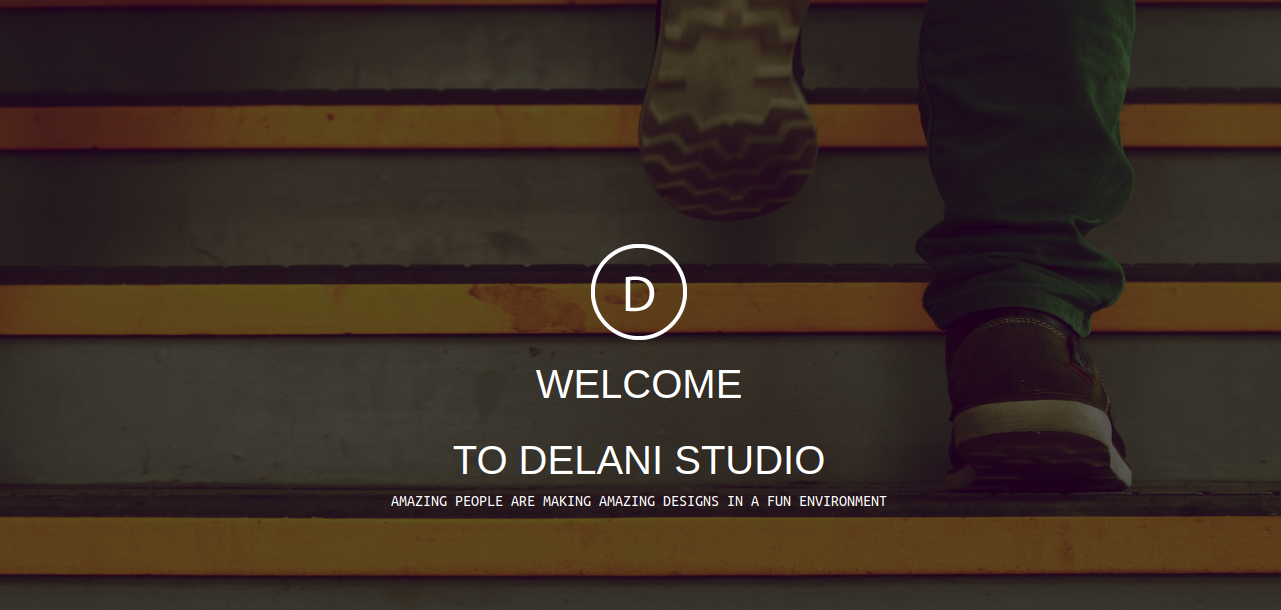
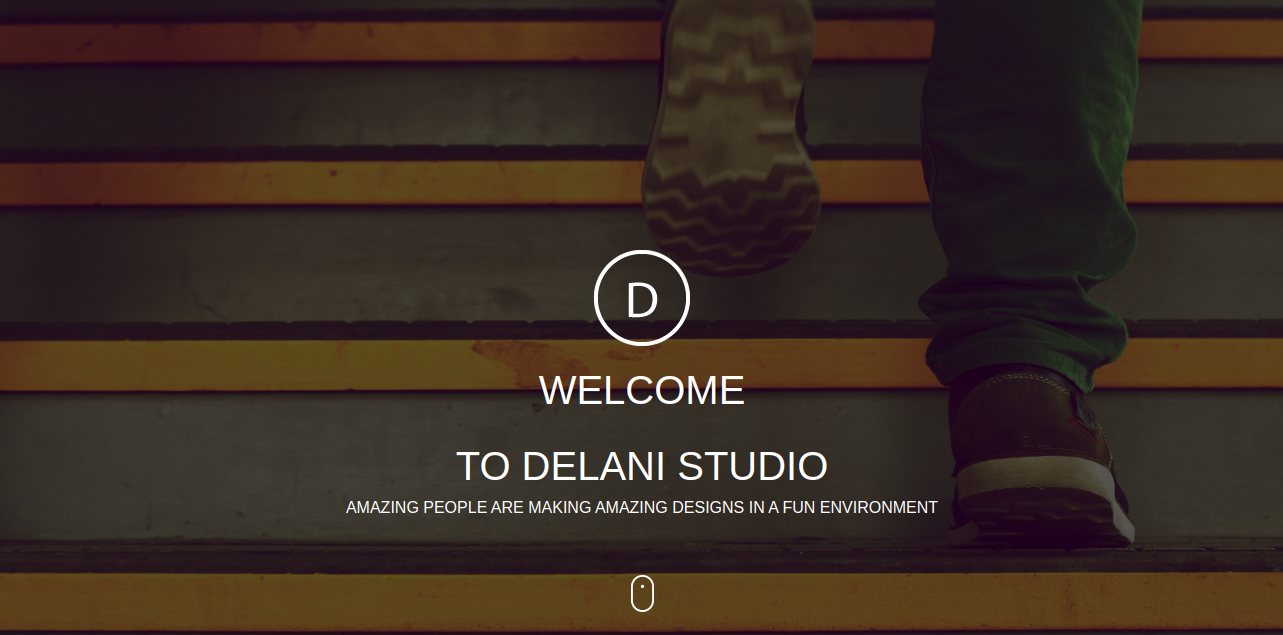
add final commit

diff --git a/index.html b/index.html
@@ -3,6 +3,7 @@
 
 <head>
     <meta charset="UTF-8">
+    <link href="https://fonts.googleapis.com/css2?family=Lato:ital,wght@1,700&display=swap" rel="stylesheet">
     <link rel="stylesheet" href="https://stackpath.bootstrapcdn.com/bootstrap/4.3.1/css/bootstrap.min.css">
     <link rel="stylesheet" href="css/style.css">
     <title>Delani Studio</title>
@@ -23,7 +24,7 @@
             </div>
         </div>
         <div class="about">
-            <h1 style="text-align: center;">ABOUT US</h1>
+            <h1 style="text-align: center;"><strong>ABOUT US</strong></h1>
             <p>When you work with us, you are a part of a team of committed collaborators. All aspects of our software development process are integrated, interactive<br>and agile
             </p>
             <p>Our approach unifies design, development and product management to create exceptional products.
@@ -34,30 +35,30 @@
         </div>
         <div class="services">
             <div class="small-overlay">
-                <h1>SERVICES</h1>
+                <h1 style="text-align: center;"><strong>SERVICES</strong></h1>
                 <p>Before we sign or write a line of code our team will spend the necessary time needed to understand your product vision.
                     <p>The outcome of this scoping session is a proposal or high level statement of work.
                         <p>Based on your requirements, we can provide a complete offering or just the pieces you need.</p>
             </div>
         </div>
         <div class="what-we-do">
-            <h1 style="text-align: center;">WHAT WE DO</h1>
+            <h1 style="text-align: center;"><strong>WHAT WE DO</strong></h1>
             <div class="col-md-12">
                 <div class="row">
                     <figure class="col-md-4">
-                        <img src="assets/services_icons/design_icon.png" alt="services-icons" class="service-icons des">
+                        <img src="assets/services_icons/design_icon.png" alt="services-icons" class="service-icons design">
                         <figcaption id="destxt">DESIGN</figcaption>
                         <p id="design">Our design practice offers a full range of services including brand strategy, interaction and visual design and user experience testing. Throughout your project, our designers create and implement visual design and workflows, solicit
                             user feedback and work with you to make sure what gets built is what is needed.</p>
                     </figure>
                     <figure class="col-md-4">
-                        <img src="assets/services_icons/dev_icon.png" alt="services-icons" class="service-icons dev">
+                        <img src="assets/services_icons/dev_icon.png" alt="services-icons" class="service-icons develop">
                         <figcaption id="devtxt">DEVELOPMENT</figcaption>
                         <p id="develop">All engineers are fluent in the latest enterprise, mobile and web development technologies. They collaborate with your team to write, and improve code on a daily basis, using proven practices such as test-driven development and
                             pair programming.</p>
                     </figure>
                     <figure class="col-md-4">
-                        <img src="assets/services_icons/product_icon.png" alt="services-icons" class="service-icons pro">
+                        <img src="assets/services_icons/product_icon.png" alt="services-icons" class="service-icons product">
                         <figcaption id="prodtxt">PRODUCT DESIGN</figcaption>
                         <p id="product">Planning and development is iterative. Because we are constantly coding and testing, the products we build are always ready to go live. This iterative process allows for changes as business requirements evolve.</p>
                     </figure>
@@ -65,7 +66,7 @@
             </div>
         </div>
         <div class="portfolio container-fluid">
-            <h1 style="text-align: center;">PORTFOLIO</h1>
+            <h1 style="text-align: center;"><strong>PORTFOLIO</strong></h1>
             <div class="col-md-12 mx-auto">
                 <div class="row">
                     <div class="col-md-2"></div>
@@ -135,7 +136,7 @@
         </div>
         <div class="contacts">
             <div class="contact-overlay">
-                <h1 style="text-align: center;">CONTACT US</h1>
+                <h1 style="text-align: center;"><strong>CONTACT US</strong></h1>
                 <div class="col-md-12 input">
                     <form id="form">
                         <div class="row">

diff --git a/js/script.js b/js/script.js
@@ -3,43 +3,44 @@ $(function() {
     let develop = $('#develop');
     let product = $('#product');
 
-
     //Show paragraph content
-    $('.des').on('click', function() {
-        $('.des').slideToggle();
+    $('.design').on('click', function() {
+        $('.design').slideToggle();
         $(design).slideToggle();
 
     });
-    $('.dev').on('click', function() {
-        $('.dev').slideToggle();
+    $('.develop').on('click', function() {
+        $('.develop').slideToggle();
         $(develop).slideToggle();
     });
-    $('.pro').on('click', function() {
-        $('.pro').slideToggle('slow');
+    $('.product').on('click', function() {
+        $('.product').slideToggle('slow');
         $(product).slideToggle();
     });
 
     //Hide paragraph content
     $(design).on('click', function() {
-        $('.des').slideToggle();
+        $('.design').slideToggle();
         $(design).slideToggle();
     });
     $(develop).on('click', function() {
-        $('.dev').slideToggle();
+        $('.develop').slideToggle();
         $(develop).slideToggle();
     });
     $(product).on('click', function() {
-        $('.pro').slideToggle();
+        $('.product').slideToggle();
         $(product).slideToggle();
     })
 
     //Overlay images
 
     $('.p-img').hover(function() {
-        $('.p-txt').slideToggle('slow');
+        $('.p-txt', this).slideToggle('slow');
     }, function() {
-        $('.p-txt').slideToggle('slow');
+        $('.p-txt', this).slideToggle('slow');
+
     });
+
 
 
     //Form Validation

diff --git a/css/style.css b/css/style.css
@@ -1,5 +1,6 @@
 html {
     box-sizing: border-box;
+    font-family: 'Lato', sans-serif;
 }
 
 body {
@@ -27,7 +28,7 @@ body {
 }
 
 .mouse {
-    padding: 50px;
+    padding: 190px;
 }
 
 .services {
@@ -35,6 +36,8 @@ body {
     color: white;
     height: 20px;
     margin-top: 20px;
+    background-image: url("../assets/backgrounds/s_image.jpg");
+    height: 280px;
 }
 
 .delani {
@@ -54,7 +57,7 @@ body {
 .jumbotron-fluid {
     background-image: url("../assets/backgrounds/h_img.jpg");
     background-size: cover;
-    height: 668px;
+    height: 800px;
 }
 
 .about {
@@ -64,11 +67,6 @@ body {
 
 .about h1 {
     margin-top: 30px;
-}
-
-.services {
-    background-image: url("../assets/backgrounds/s_image.jpg");
-    height: 280px;
 }
 
 .services h1 {
@@ -131,6 +129,7 @@ figcaption {
     justify-content: center;
     padding-left: 10px;
     padding-right: 10px;
+    margin-top: 40px;
 }
 
 .img-fluid {
@@ -152,7 +151,7 @@ figcaption {
     width: auto;
     position: absolute;
     bottom: 0;
-    color: grey;
+    color: #004d1a;
     text-align: center;
     font-weight: bold;
     font-size: 30px;
@@ -166,6 +165,7 @@ textarea::placeholder {
 
 footer {
     text-align: center;
+    height: 100px;
 }
 
 #design {
